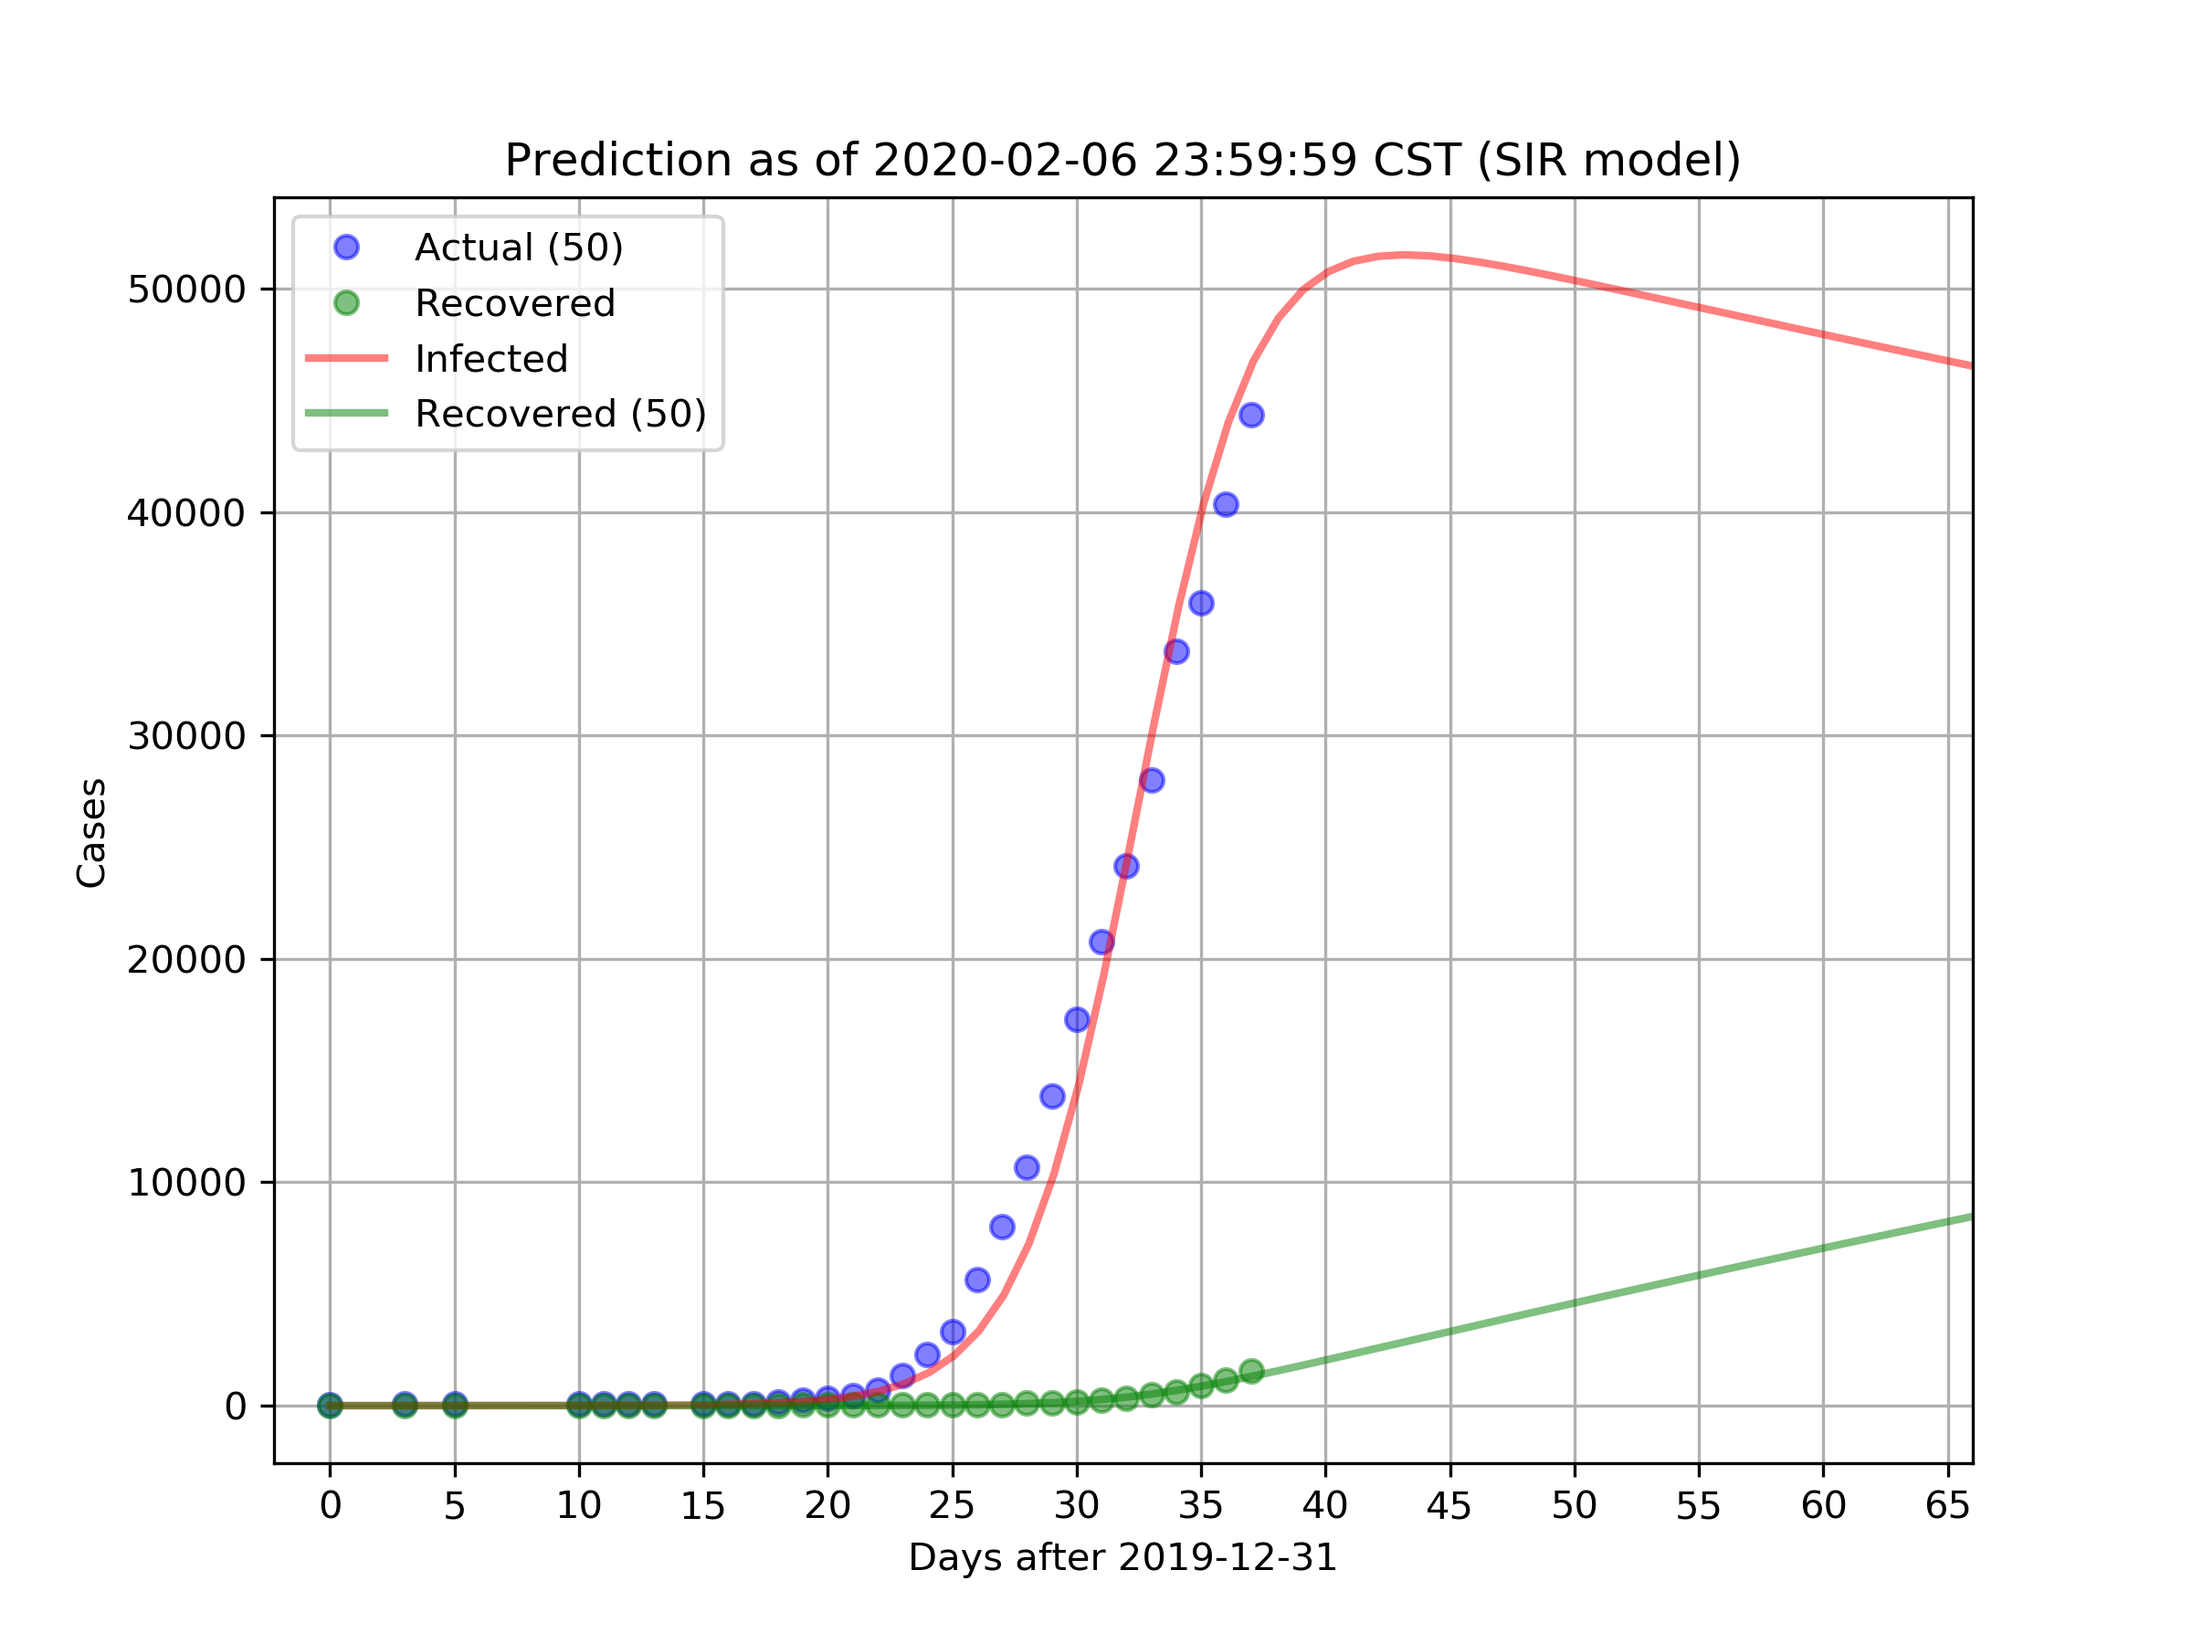
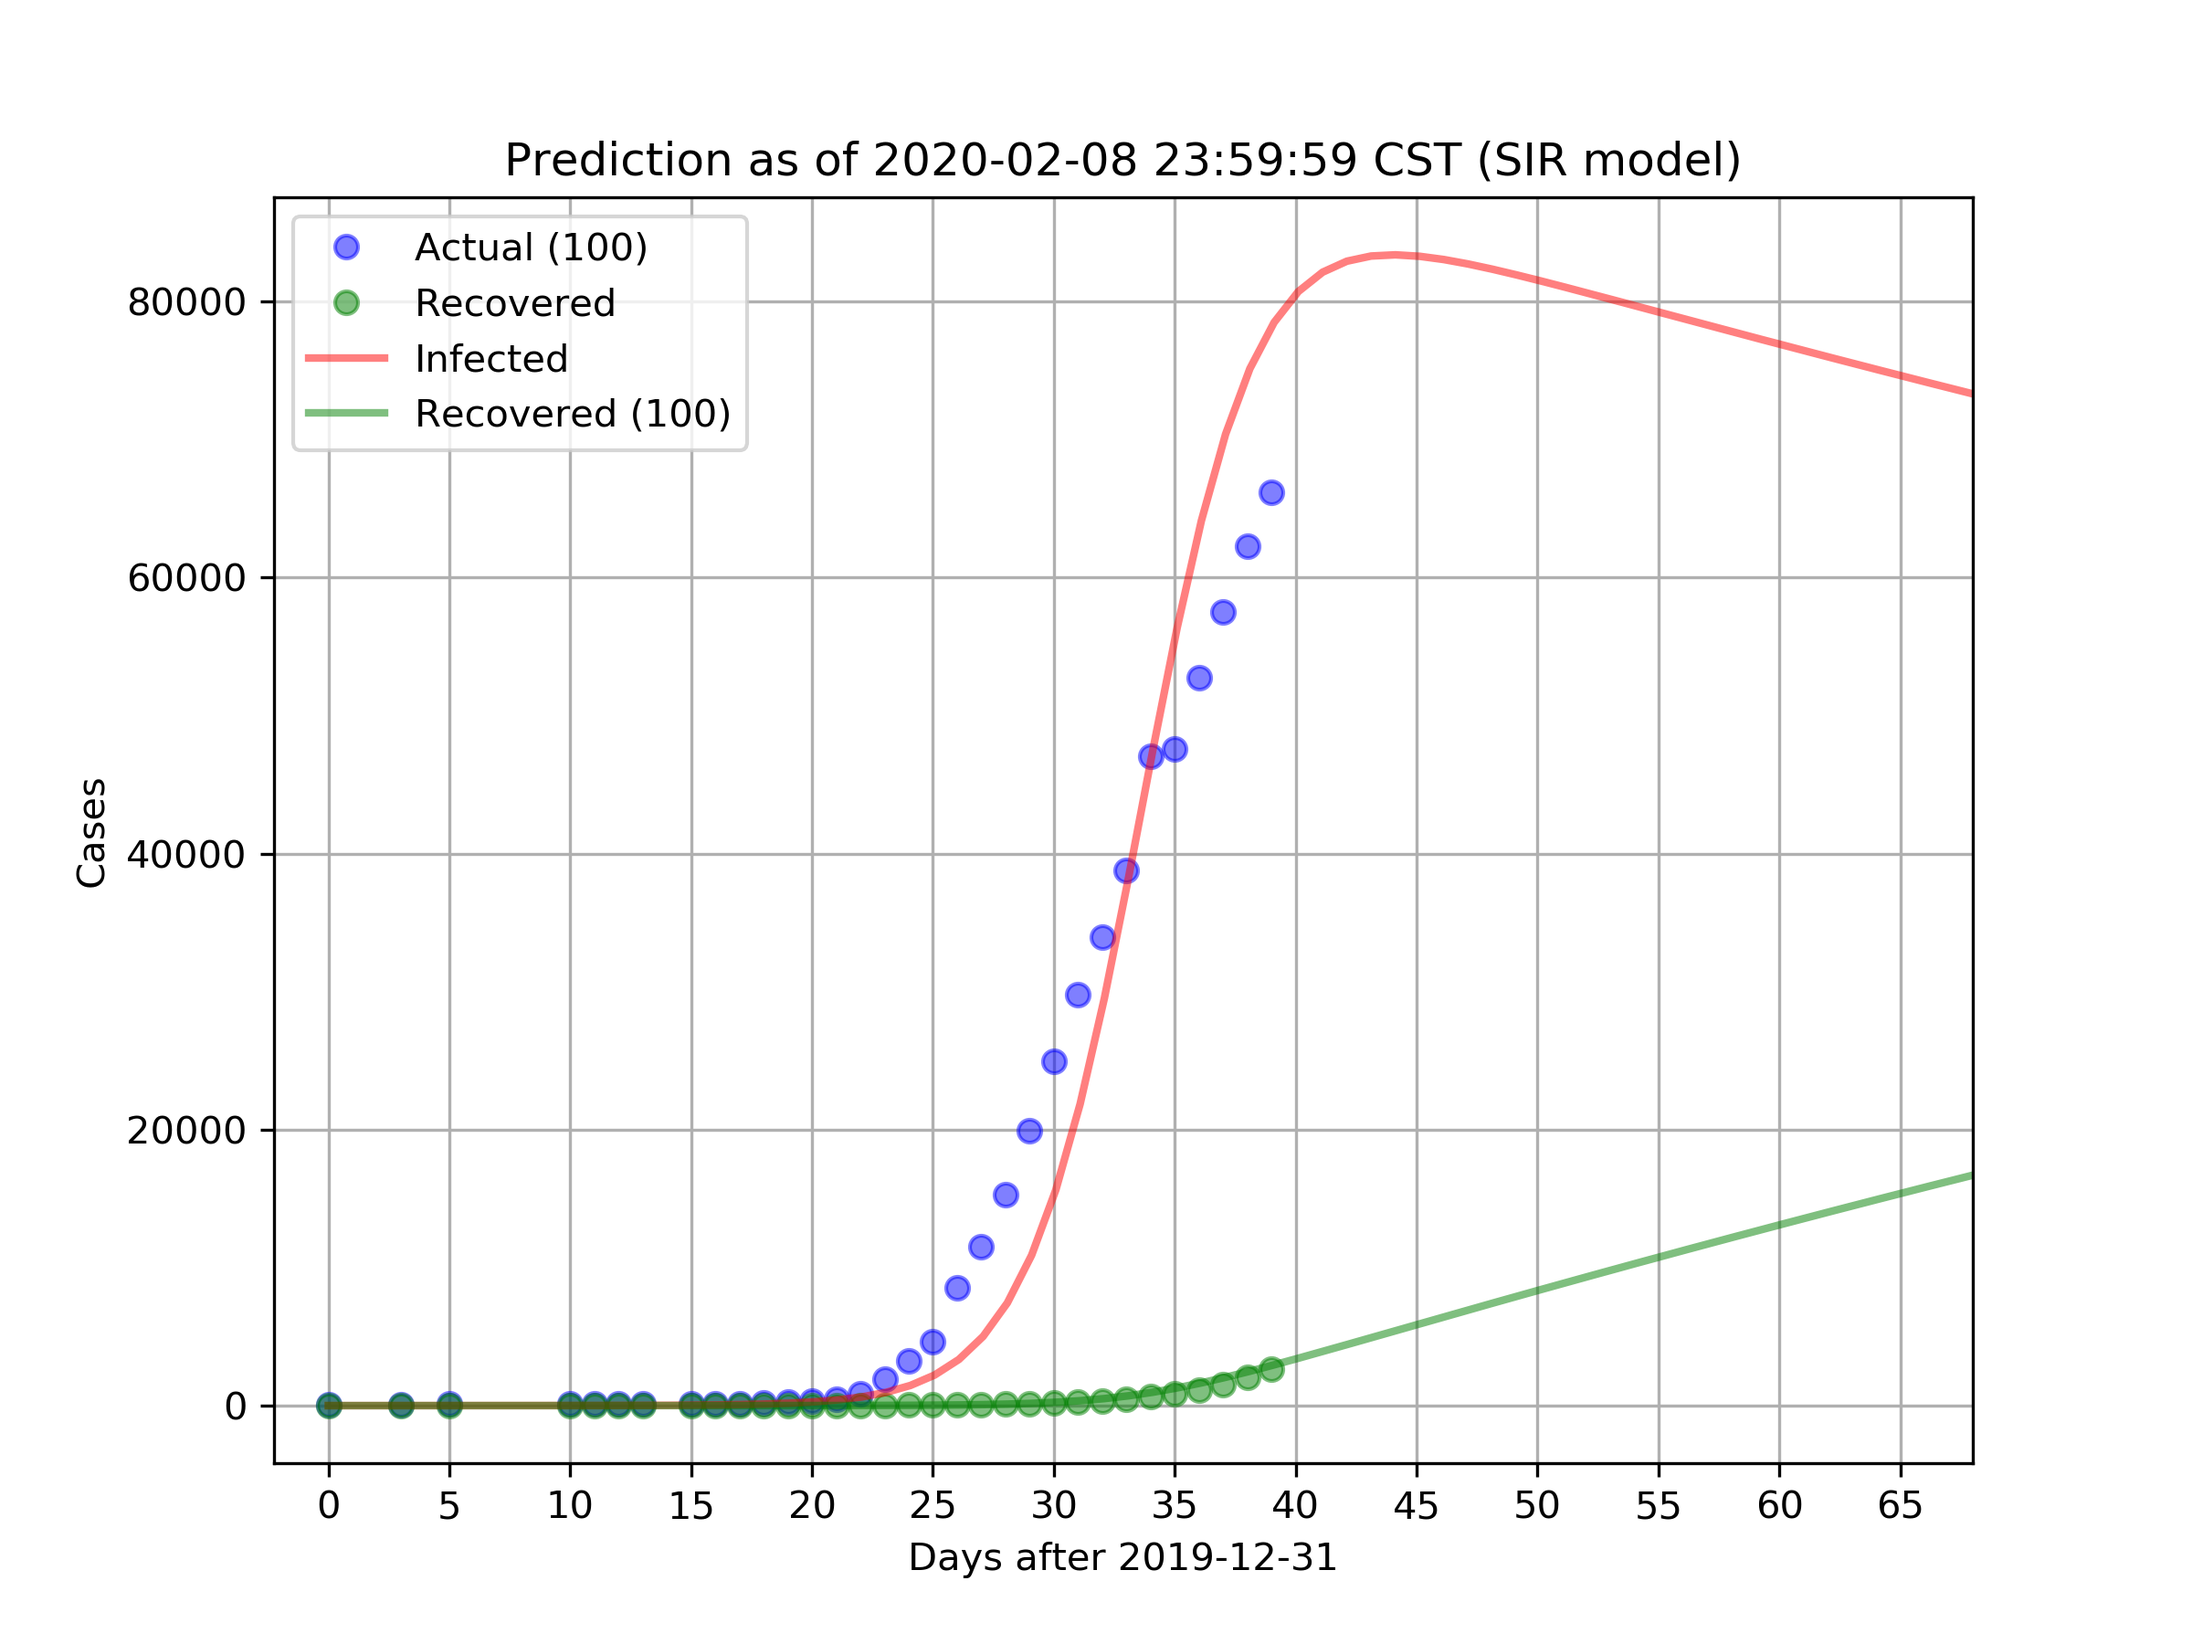
update 2020-02-08

diff --git a/2019_nCoV_SIR.py b/2019_nCoV_SIR.py
@@ -20,13 +20,13 @@ Y_frame = info_frame.drop(['Date CST'], axis=1)
 Ys = Y_frame.to_numpy().transpose()
 
 # Total population, N.
-N = 55000000
+N = 90000000
 # Initial number of infected and recovered individuals, I0 and R0.
 I0, R0 = 55, 0
 # Everyone else, S0, is susceptible to infection initially.
 S0 = N - I0 - R0
 # Contact rate, beta, and mean recovery rate, gamma, (in 1/days).
-beta, gamma = 0.43, 5e-3
+beta, gamma = 0.43, 6e-3
 # A grid of time points (in days)
 t = np.linspace(0, 365, 365)
 
@@ -59,13 +59,13 @@ def graph():
     axs[0].set_xlabel('Days after 2019-12-31')
     axs[0].set_ylabel('Cases')
 
-    axs[0].plot(X, Ys[0] / 2 + Ys[1], 'bo', label='Actual (50)', alpha=0.5)
+    axs[0].plot(X, Ys[0] + Ys[1], 'bo', label='Actual (100)', alpha=0.5)
     axs[0].plot(X, Ys[3], 'go', label='Recovered', alpha=0.5)
     axs[0].set_xlim(-2.25, today_days + 29)
     axs[0].set_xticks(np.arange(today_days + 30, step=5))
 
     axs[0].plot(t, I / 1000, 'r', alpha=0.5, lw=2, label='Infected')
-    axs[0].plot(t, R / 1000, 'g', alpha=0.5, lw=2, label='Recovered (50)')
+    axs[0].plot(t, R / 1000, 'g', alpha=0.5, lw=2, label='Recovered (100)')
 
     axs[0].grid()
     axs[0].legend(loc='best')
